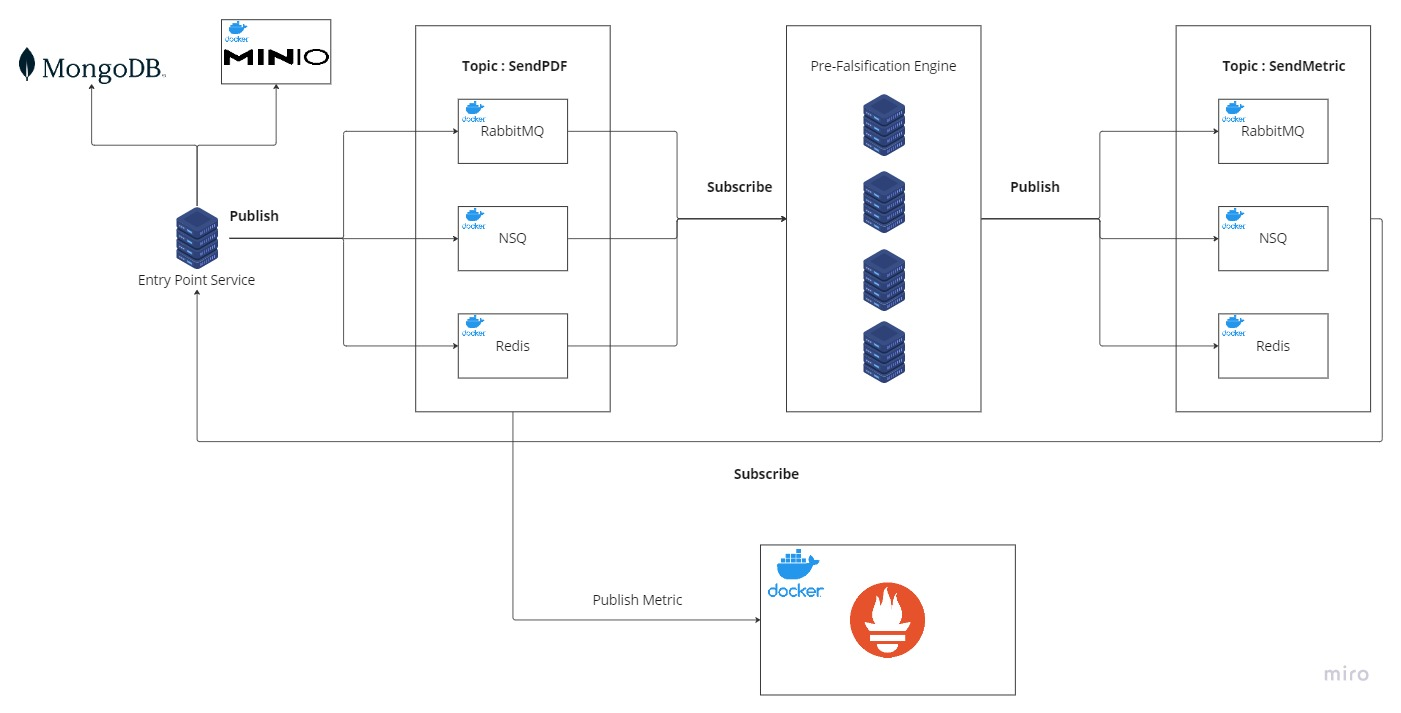
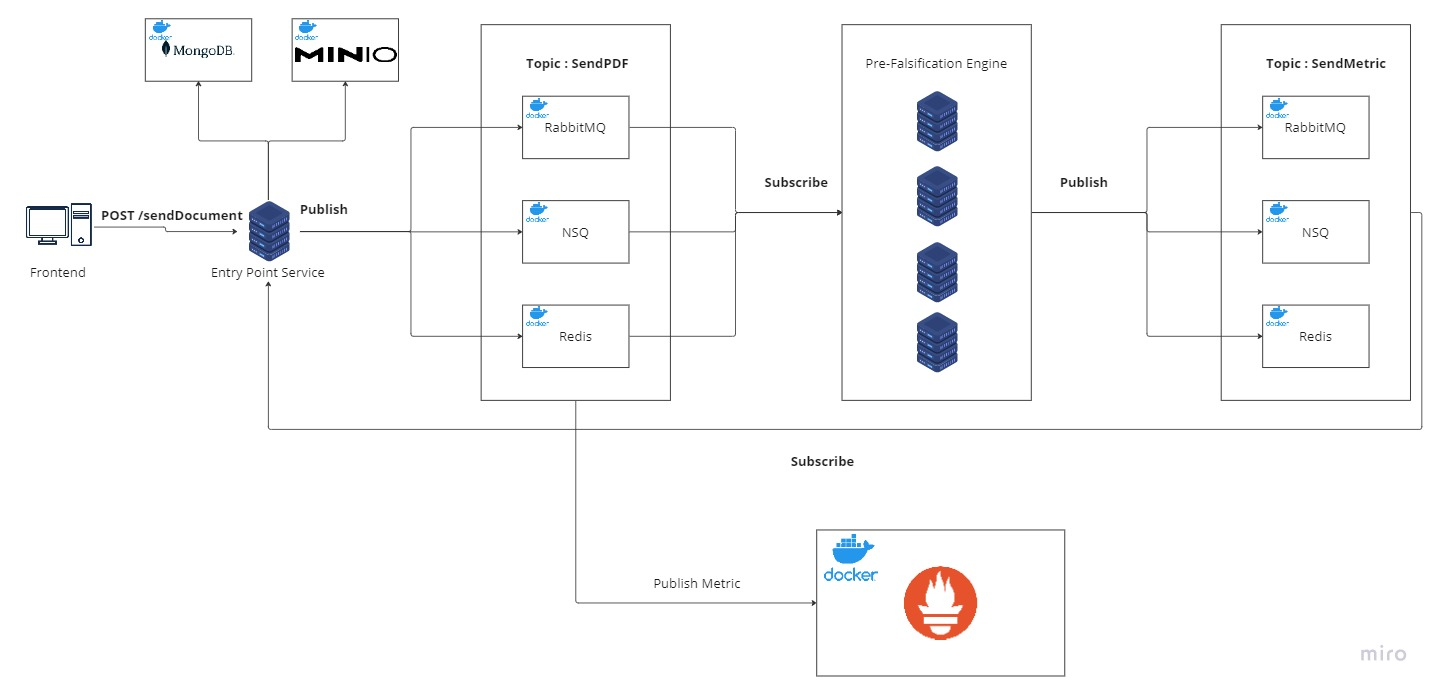
patch README, remove code related to connecting mongodb via atlas

diff --git a/db/mongo.go b/db/mongo.go
@@ -16,40 +16,37 @@ type Mongo struct {
 	Db     *mongo.Database
 }
 
-func loadMongoDBConfig() (string, string, error) {
+// Commented code ode below is used to connect to mongodb atlas
+func loadMongoDBConfig() (string, error) {
 	if err := godotenv.Load(); err != nil {
 		log.Println("No .env file found")
 	}
-
-	if os.Getenv("MONGODB_USERNAME") == "" {
-		return "", "", fmt.Errorf("Environment Variable MONGODB_USERNAME must be set")
-	}
-	if os.Getenv("MONGODB_PASSWORD") == "" {
-		return "", "", fmt.Errorf("Environment Variable MONGODB_PASSWORD must be set")
-	}
-	if os.Getenv("MONGODB_CLUSTER") == "" {
-		return "", "", fmt.Errorf("Environment Variable MONGODB_CLUSTER must be set")
-	}
+	// if os.Getenv("MONGODB_USERNAME") == "" {
+	// 	return "", "", fmt.Errorf("Environment Variable MONGODB_USERNAME must be set")
+	// }
+	// if os.Getenv("MONGODB_PASSWORD") == "" {
+	// 	return "", "", fmt.Errorf("Environment Variable MONGODB_PASSWORD must be set")
+	// }
+	// if os.Getenv("MONGODB_CLUSTER") == "" {
+	// 	return "", "", fmt.Errorf("Environment Variable MONGODB_CLUSTER must be set")
+	// }
 	if os.Getenv("MONGODB_DB_NAME") == "" {
-		return "", "", fmt.Errorf("Environment Variable MONGODB_DB_NAME must be set")
+		return "", fmt.Errorf("Environment Variable MONGODB_DB_NAME must be set")
 	}
 
-	connStr := fmt.Sprintf("mongodb+srv://%s:%s@%s",
-		os.Getenv("MONGODB_USERNAME"),
-		os.Getenv("MONGODB_PASSWORD"),
-		os.Getenv("MONGODB_CLUSTER"),
-	)
+	// connStr := fmt.Sprintf("mongodb+srv://%s:%s@%s",
+	// 	os.Getenv("MONGODB_USERNAME"),
+	// 	os.Getenv("MONGODB_PASSWORD"),
+	// 	os.Getenv("MONGODB_CLUSTER"),
+	// )
 
 	dbName := fmt.Sprintf("%s", os.Getenv("MONGODB_DB_NAME"))
 
-	return connStr, dbName, nil
+	return dbName, nil
 }
 
 func InitMongoDB(ctx context.Context) (*Mongo, error) {
-	uri, db, err := loadMongoDBConfig()
-	if uri == "" {
-		log.Fatal("You must set your 'MONGODB_URI' environmental variable. See\n\t https://www.mongodb.com/docs/drivers/go/current/usage-examples/#environment-variable")
-	}
+	db, err := loadMongoDBConfig()
 	if db == "" {
 		log.Fatal("You must set your 'MONGODB_DB_NAME' environmental variable.")
 	}

diff --git a/README.md b/README.md
@@ -1,10 +1,33 @@
 # go-nsq
 
 ## System Architecure
-![assets\system_architecture.jpg](assets/system_architecture.jpg/)
+![assets\system_architecture.jpg](assets/system_architecture.jpg)
 This project use docker to pack every dependencies. However (currently) the Pre-Falsification Engine is unavailable, but you still able to run this software.
 
 The `Entry Point Service` act as gate to access the prefalsification engine. The contract of the `Entry Point Service` provided below. We store the document on MinIO object storage and results from `prefalsification engine` on MongoDB (since we don't see any urgencies to use relational databases). The document information flows from `Entry Point Service` to `prefalsification engine` via message brokers.
+
+## API Contract
+This system use REST API to connect from frontend. The API contract is provided below
+
+### **sendDocument**
+| HTTP Method  | MIME type  |
+|---|---|
+| POST   | .pdf  |
+
+This screenshot from postman shows how to use the `/sendDocument` endpoint properly
+
+![assets\success_request.png](assets/success_request.png)
+
+## Before You Run
+Before you test this application, please supply these environment variables on your `.env` that you should locate on the root of this repo. Table below tells the key and the value of the environment variable
+| Key  | Value  |
+|---|---|
+| MONGODB_DB_NAME   | documents  |
+| MINIO_ENDPOINT   | localhost:9000  |
+| MINIO_ACCESS_KEY_ID   | Q3AM3UQ867SPQQA43P2F  |
+| MINIO_SECRET_ACCESS_KEY   | zuf+tfteSlswRu7BJ86wekitnifILbZam1KYY3TG  |
+| MINIO_BUCKET   | documents  |
+| RABBITMQ_URL_ADDRESS   | amqp://guest:guest@localhost:5672/  |
 
 ## How To Run
 1. Make sure you are already install `Go`. In this version, we use `v1.19.1` of `Go`.
